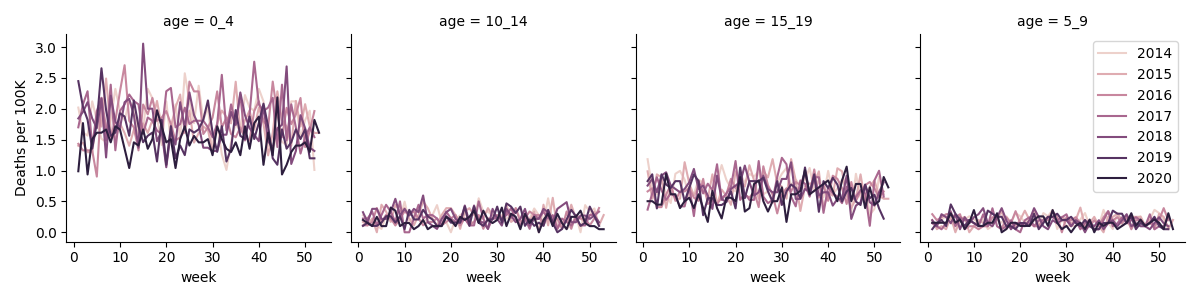
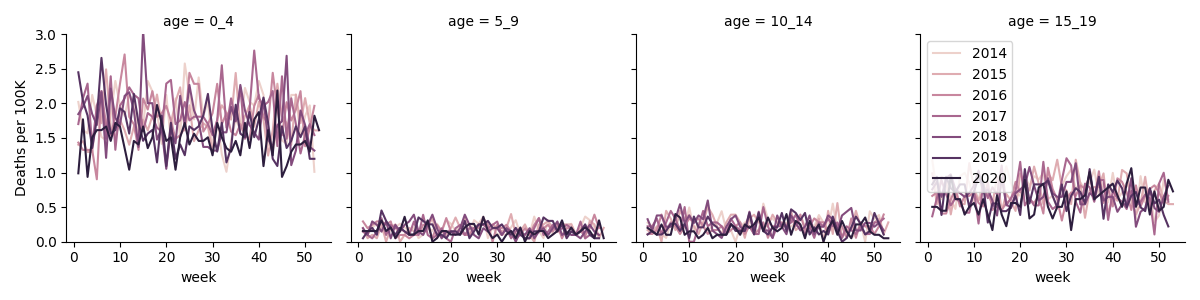
first submission version

diff --git a/src/calendar.py b/src/calendar.py
@@ -39,21 +39,46 @@ def plot_confirmed(region, dates=(datetime(2020,3,1),datetime(2021,3,15)), event
     sns.scatterplot(x='Date',y='Y',hue='Restriction',data=cal,ax=ax)
     plt.show()
     
+def plot_segment(region, dates=(datetime(2020,3,1),datetime(2021,3,15)), event=None):
+    # load calendar
+    cal = load_calendar()
+    cal = cal[cal.Country == region]
+    if event is not None:
+        cal = cal[cal.Date == event]
+        cal['Restriction'] = cal['Title']
+    else:
+        cal = cal[(cal.Date >= dates[0]) & (cal.Date <= dates[1])]
+    cal['Y'] = -.05
+    # load data
+    x = posterior._posterior_data(region, dates, weekly=False)
+    POP = population.get_population(region)
+    x['Confirmed cases per 1000 people'] = x.confirmed / POP * 1e3
+    x = x[(x.date >= dates[0]) & (x.date <= dates[1])]
     
+    # plot
+    plt.rcParams["figure.figsize"] = (12,6)
+    fix,ax = plt.subplots()
+    ax.axvline(cal.Date, alpha=.4, label='Lockdown', color='blue')
+    sns.lineplot(x='date',y='Confirmed cases per 1000 people',data=x,ax=ax)
+    ax.axhline(0, alpha=.4, color='grey')
+    ax.set_ylim(-.05,2)
+    
+    #sns.scatterplot(x='Date',y='Y',hue='Restriction',data=cal,ax=ax)
+    plt.show()
 
 if __name__ == '__main__':
     # plot timelines
     #plot_confirmed('CZ')
     #plot_confirmed('SE')
     #plot_confirmed('IT')
-    plot_confirmed('PL')
+    #plot_confirmed('PL')
     
     # plot lockdowns
-    #plot_confirmed('CZ', (datetime(2020,10,10),datetime(2020,11,30)), event=datetime(2020,10,28))
-    #plot_confirmed('CZ', (datetime(2020,12,15),datetime(2021,1,31)), event=datetime(2020,12,27))
-    #plot_confirmed('CZ', (datetime(2021,2,15),datetime(2021,3,31)), event=datetime(2021,2,26))
-    #plot_confirmed('IT', (datetime(2020,3,1),datetime(2020,4,30)), event=datetime(2020,3,9))
-    #plot_confirmed('IT', (datetime(2020,12,15),datetime(2021,1,31)), event=datetime(2020,12,18))
-    #plot_confirmed('PL', (datetime(2020,3,15),datetime(2020,4,30)), event=datetime(2020,3,25))
+    plot_segment('CZ', (datetime(2020,10,10),datetime(2020,11,30)), event=datetime(2020,10,28))
+    plot_segment('CZ', (datetime(2020,12,15),datetime(2021,1,31)), event=datetime(2020,12,27))
+    plot_segment('CZ', (datetime(2021,2,15),datetime(2021,3,31)), event=datetime(2021,2,26))
+    #plot_segment('IT', (datetime(2020,3,1),datetime(2020,4,30)), event=datetime(2020,3,9))
+    #plot_segment('IT', (datetime(2020,12,15),datetime(2021,1,31)), event=datetime(2020,12,18))
+    #plot_segment('PL', (datetime(2020,3,15),datetime(2020,4,30)), event=datetime(2020,3,25))
     
 

diff --git a/src/mortality.py b/src/mortality.py
@@ -264,8 +264,9 @@ def plot_0_4(country):
                                                     '%Y-%W-%w'), axis=1)
     x['Deaths per 100K'] = x.deaths / x.population * 1e5
     # plot
-    g = sns.FacetGrid(x, col="age")
+    g = sns.FacetGrid(x, col="age", col_order=['0_4','5_9','10_14','15_19'])
     g.map(sns.lineplot, 'week', 'Deaths per 100K', 'year')
+    plt.ylim(0,3)
     plt.legend()
     plt.savefig(f'img/discussion/age_{country}.png')
     plt.show()
@@ -327,11 +328,11 @@ def test_PL_0_4_greater():
 
 
 if __name__ == '__main__':
-    test_PL_0_4_greater()
-    #plot_0_4('PL')
-    #plot_0_4('CZ')
-    #plot_0_4('IT')
-    #plot_0_4('SE')
+    #test_PL_0_4_greater()
+    plot_0_4('PL')
+    plot_0_4('CZ')
+    plot_0_4('IT')
+    plot_0_4('SE')
     #plot_0_4('FR')
     #plot_0_4('DE')
     
